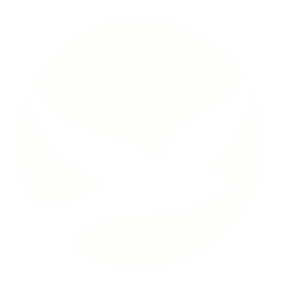
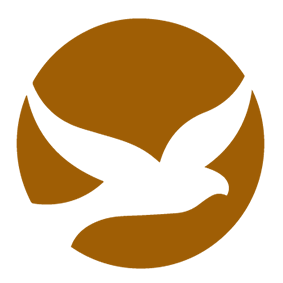
New front-page

diff --git a/index.html b/index.html
@@ -56,6 +56,10 @@
         /* Suas Cores Customizadas (Pode alterar os códigos HEX aqui!) */
         --color-shalom-azul: #1E3A8A; /* Exemplo de azul escuro */
         --color-shalom-dourado: #D4AF37; /* Exemplo de dourado/amarelo */
+        --color-marrom: #AE7B12;
+        --color-marrom-escuro: #8F5E19;
+        --color-marrom-claro: #A88553;
+        --color-creme: #FFFCF1;
       }
       
       /* Forçando a fonte Poppins como padrão para o site todo */
@@ -73,71 +77,58 @@
       <!-- Page Content -->
       <main id="page-content" class="flex max-w-full flex-auto flex-col">
         <!-- Hero -->
-        <div class="bg-gray-900">
-          <!-- Header -->
-          <header id="page-header" class="flex flex-none items-center py-10">
-          <div
-            class="container mx-auto flex items-center justify-center px-4 lg:px-8 xl:max-w-6xl"
-          >
-            <a
-              class="inline-flex items-center gap-2 text-base tracking-wide text-white hover:opacity-75"
-            >
-              <img 
-                src="assets/icone.png" 
-                alt="Ícone Shalom" 
-                class="h-6 w-auto object-contain"
-              />
-              <span class="italic">Campanha de Arrecadação - Shalom SP</span>
-            </a>
-          </div>
-        </header>
-          <!-- END Header -->
+         <!-- Header -->
+        <div class="relative bg-[url('assets/hero-bg-mb-1.png')] md:bg-[url('assets/hero-bg.png')] bg-cover bg-center bg-no-repeat">
 
-          <!-- Hero Content -->
-          <div
-            class="container mx-auto px-4 pt-6 lg:px-8 lg:pt-14 xl:max-w-6xl"
-          >
+          <header id="page-header" class="relative z-10 flex flex-none items-center py-10">
+            <div class="container mx-auto flex items-center justify-center px-4 lg:px-8 xl:max-w-6xl">
+              <a href="" class="inline-flex items-center gap-2 text-base tracking-wide text-marrom-escuro hover:opacity-75 transition-opacity">
+                <img 
+                  src="assets/icone.png" 
+                  alt="Ícone Shalom" 
+                  class="h-6 w-auto object-contain"
+                />
+                <span class="italic font-medium">Campanha de Arrecadação - Shalom SP</span>
+              </a>
+            </div>
+          </header>
+          <div class="relative z-10 container mx-auto px-4 pt-6 lg:px-8 lg:pt-14 xl:max-w-6xl">
             <div class="text-center">
-              <h2
-                class="mb-4 text-5xl font-extrabold text-balance text-white md:text-7xl leading-tight"
-              >
-                Para Deus, sempre o <br />
-                <span class="inline-block mt-2 rounded-lg bg-blue-600 px-4 py-1 text-white">melhor!</span>
+              
+              <h2 class="mb-4 leading-tight">
+                <span class="block font-dafoe text-7xl md:text-8xl font-normal text-marrom">
+                  Vai e
+                </span>
+                
+                <span class="inline-block mt-2 rounded-xl bg-marrom px-6 py-2 text-6xl md:text-7xl font-extrabold text-creme shadow-lg">
+                  reconstrói
+                </span>
+                <br />
+                
+                <span class="inline-block mt-4 text-4xl md:text-5xl font-normal text-marrom">
+                  a minha igreja
+                </span>
               </h2>
-              <h3
-                class="mx-auto mt-6 text-lg font-medium text-gray-400 md:text-xl md:leading-relaxed lg:w-2/3"
-              >
-                Ajude a Comunidade Católica Shalom de São Paulo a renovar seus materiais litúrgicos!
+              
+              <h3 class="mx-auto mt-8 px-6 text-base font-medium text-marrom-escuro md:px-0 md:text-lg md:leading-relaxed lg:w-2/3">
+                Inspirados pelo chamado feito a São Francisco, queremos oferecer o melhor ao Senhor e cuidar do Sagrado confiado à missão.
               </h3>
             </div>
+            
             <div class="flex flex-wrap justify-center gap-4 pt-10 pb-16">
               <a
                 href="#doacoes"
-                class="inline-flex items-center justify-center gap-2 rounded-full border border-blue-800 bg-blue-800 px-6 py-4 leading-6 font-semibold text-white hover:border-blue-700/50 hover:bg-blue-700/50 hover:text-white focus:ring-3 focus:ring-blue-500/50 focus:outline-hidden active:border-blue-700 active:bg-blue-700 transition-colors"
+                class="inline-flex items-center justify-center gap-2 rounded-full bg-marrom-escuro px-8 py-4 leading-6 font-bold text-creme hover:opacity-90 focus:ring-3 focus:ring-marrom/50 transition-all shadow-lg hover:shadow-xl hover:-translate-y-1"
               >
-                <svg
-                  xmlns="http://www.w3.org/2000/svg"
-                  viewBox="0 0 20 20"
-                  fill="currentColor"
-                  data-slot="icon"
-                  class="hi-mini hi-heart inline-block size-5 opacity-75"
-                >
-                  <path
-                    d="m9.653 16.915-.005-.003-.019-.01a20.759 20.759 0 0 1-1.162-.682 22.045 22.045 0 0 1-2.582-1.9C4.045 12.733 2 10.352 2 7.5a4.5 4.5 0 0 1 8-2.828A4.5 4.5 0 0 1 18 7.5c0 2.852-2.044 5.233-3.885 6.82a22.049 22.049 0 0 1-3.744 2.582l-.019.01-.005.003h-.002a.739.739 0 0 1-.69.001l-.002-.001Z"
-                  />
+                <svg xmlns="http://www.w3.org/2000/svg" viewBox="0 0 20 20" fill="currentColor" data-slot="icon" class="hi-mini hi-heart inline-block size-5">
+                  <path d="m9.653 16.915-.005-.003-.019-.01a20.759 20.759 0 0 1-1.162-.682 22.045 22.045 0 0 1-2.582-1.9C4.045 12.733 2 10.352 2 7.5a4.5 4.5 0 0 1 8-2.828A4.5 4.5 0 0 1 18 7.5c0 2.852-2.044 5.233-3.885 6.82a22.049 22.049 0 0 1-3.744 2.582l-.019.01-.005.003h-.002a.739.739 0 0 1-.69.001l-.002-.001Z" />
                 </svg>
-                <span>Ajude a missão!</span>
+                <span>Participe da Reconstrução!</span>
               </a>
             </div>
-          
-            <div
-              class="relative z-10 mx-2 -mb-20 rounded-xl bg-white p-2 shadow-lg sm:-mb-40 lg:mx-16"
-            >
-              <img
-                src="assets/imagem_missa.jpg"
-                alt="Objetos Litúrgicos"
-                class="mx-auto aspect-[21/9] w-full rounded-lg object-cover"
-              />
+            
+            <div class="relative z-10 mx-2 -mb-20 rounded-xl bg-white p-2 shadow-lg sm:-mb-40 lg:mx-16">
+              <img src="assets/imagem_missa.jpg" alt="Objetos Litúrgicos" class="mx-auto aspect-[21/9] w-full rounded-lg object-cover" />
             </div>
           </div>
           </div>
